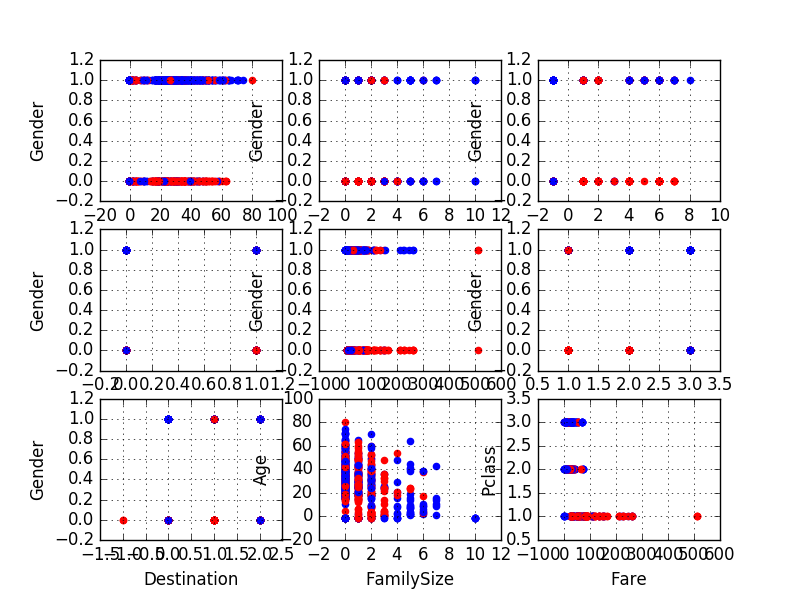
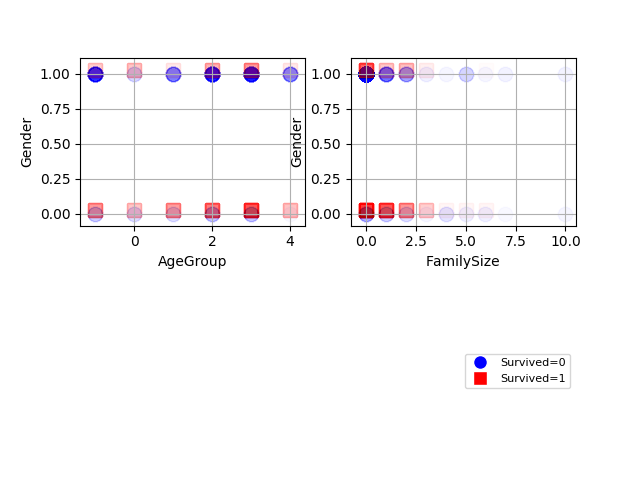
Making plotting a general function and updating analyzer for titanic dataset accordingly

Changed region(s): [[0.0312, 0.0938, 0.9375, 1.0]]

diff --git a/Datasets/Titanic/analyzing_titanic.py b/Datasets/Titanic/analyzing_titanic.py
@@ -7,7 +7,7 @@ import pandas as pd
 import sys
 from collections import defaultdict
 sys.path.insert(0, '/home/kyletos/Kaggle/Tools/')
-from formatting import targetFeatureSplit
+from formatting import *
 
 pd.set_option('display.max_columns', 100000000000)
 pd.set_option('display.max_rows', 1000000000000)
@@ -17,6 +17,8 @@ df_ORI = pd.read_csv('train.csv',header=0)
 print (df_ORI.dtypes ) 
 df = df_ORI.fillna('-1')
 print("NaN = -1")
+
+
 df['Gender'] = df['Sex'].map( {'female': 0, 'male': 1} ).astype(int)
 del df['Sex']
 print("Gender map(Sex): 'male'= 1 and 'female'= 0")
@@ -26,14 +28,14 @@ del df['Embarked']
 print("Destinaion map(Embarked): 'NaN' = -1,'S'=0, 'C'=1 , 'Q'=2 ")
 
 df['CabLet'] = df['Cabin'].map( lambda x: x[0])
-df['CabLetter'] = df['CabLet'].map( { '-': -1, 'C': 1, 'E': 2, 'G': 3, 'D': 4, 'A': 5, 'B': 6, 'F': 7, 'T': 8}).astype(int)
+df['CabLetter'] = df['CabLet'].map( { '-': -1, 'C': 0, 'E': 1, 'G': 2, 'D': 3, 'A': 4, 'B': 5, 'F': 6, 'T': 7}).astype(int)
 del df['Cabin']
 del df['CabLet']
-print("CabLetter map(Cabin)= 'NaN'= -1, 'C'= 1, 'E'= 2, 'G'= 3, 'D'= 4, 'A'= 5, 'B'= 6, 'F'= 7, 'T'= 8")
+print("CabLetter map(Cabin)= 'NaN'= -1, 'C'= 0, 'E'= 1, 'G'= 2, 'D'= 3, 'A'= 4, 'B'= 5, 'F'= 6, 'T'= 7")
 
-df['TicketBeginLetter'] = df['Ticket'].map( lambda x: -1 if x == -1 else True if x[0].isdigit() else False)
+df['TicketBeginLetter'] = df['Ticket'].map( lambda x: -1 if x == -1 else 1 if x[0].isdigit() else 0)
 del df['Ticket']
-print("TicketBeginLetter map(Ticket): True if Letter is in name, False if no letter in name.")
+print("TicketBeginLetter map(Ticket): 1 if Letter is in name, 0 if no letter in name.")
 
 df['AgeGroup'] = df['Age'].map(lambda x: -1 if x == '-1' else 0 if x >= 0 and x < 10 else 1 if x >= 10 and x < 20 else 2 if x >= 20 and x < 30 else 3 if x >= 30 and x < 50 else 4 if x >= 50 else -1)
 del df['Age']
@@ -49,7 +51,7 @@ print("FamilySize = SibSp + Parch")
 ##################################
 # All numerical or boolean features
 print("\n\n#################### All Features ########################################\n" , df.columns.values )
-df_train_features = df[['Gender', 'AgeGroup', 'FamilySize', 'CabLetter', 'Destination', 'Pclass', 'Fare', 'TicketBeginLetter']].copy()
+df_train_features = df[['Survived', 'Gender', 'AgeGroup', 'FamilySize', 'CabLetter', 'Destination', 'Pclass', 'Fare', 'TicketBeginLetter']].copy()
 print("\n\n################################# Total interesting features ######################\n" , df_train_features.columns.values )
 
 #Portion of features that I use in final selection
@@ -63,6 +65,7 @@ labels_selection, features_selection = targetFeatureSplit(np_train_features_sele
 ################
 sys.path.insert(0, '/home/kyletos/Kaggle/Algorithms/')
 
+"""
 # SVM Classifiers
 from SVM_functions import *
 svmClassifier(features=features_selection, labels=labels_selection, kernel='linear', C_smoothness=1, kFolds=10, printScores=True, polyDegree=1, gamma='auto', classWeight='balanced')
@@ -71,6 +74,7 @@ svmClassifier(features=features_selection, labels=labels_selection, kernel=custo
 
 paramDict= {'kernel':('sigmoid', 'rbf'), 'C':[1, 10, 30, 70, 100], 'gamma':[.01, .05, .1, 1, 10, 30, 70, 100], 'class_weight':[None, 'balanced', {0:.35, 1:.65}]}
 best_params = svmClassifierGridSearch( features=features_selection, labels=labels_selection, parameters=paramDict, cross_validation=10)
+"""
 
 """
 ##############################
@@ -86,39 +90,25 @@ for ir in df_train_features.itertuples():
   df_train_features.iloc[int(ir[0]), df_train_features.columns.get_loc('nanSum')] = nanSum
 df_train_features = df_train_features[df_train_features['nanSum'] < len(df_train_features.columns) / 2]
 print("AFTER REMOVAL: len(df_train_features)=", len(df_train_features) )
-
-
+"""
 ################
 # Visualization
 ################
-survived = df["Survived"].values
-labels = []
-labels.append(['Age', 'Gender'])
-labels.append(['FamilySize', 'Gender'])
-labels.append(['CabLetter', 'Gender'])
-labels.append(['TicketBeginLetter', 'Gender'])
-labels.append(['Fare', 'Gender'])
-labels.append(['Pclass', 'Gender'])
-labels.append(['Destination', 'Gender'])
-labels.append(['FamilySize', 'Age'])
-labels.append(['Fare', 'Pclass'])
+pairs = []
+pairs.append(['AgeGroup', 'Gender'])
+pairs.append(['FamilySize', 'Gender'])
+"""
+pairs.append(['CabLetter', 'Gender'])
+pairs.append(['TicketBeginLetter', 'Gender'])
+pairs.append(['Fare', 'Gender'])
+pairs.append(['Pclass', 'Gender'])
+pairs.append(['Destination', 'Gender'])
+pairs.append(['FamilySize', 'AgeGroup'])
+pairs.append(['Fare', 'Pclass'])
+"""
+plotGridOf2DsWithColor(df_train_features, pairs, ["blue", "red"], [ "o", "s"], "SVM_FeatureComb.png", "png" , 0.01, 110)
 
-
-colors = ["b", "r"]
-np_labels = np.array(labels)
-for i in range(9):
-  print("Plot", i )
-  plt.subplot(3,3,i+1)
-  plt.xlabel(np_labels[i][0])
-  plt.ylabel(np_labels[i][1])
-  np_train_features = df_train_features[[ np_labels[i][0], np_labels[i][1] ]].values
-  for ii in range(len(survived )):
-    plt.scatter(np_train_features[ii][0], np_train_features[ii][1], color = colors[survived[ii]] )
-  plt.grid(True)
-plt.savefig("SVM_FeatureComb.png", format='png')
-plt.show()
-
-
+"""
 #################
 # Percentages
 #################

diff --git a/Tools/formatting.py b/Tools/formatting.py
@@ -2,14 +2,16 @@ import string
 import numpy as np
 import csv
 import matplotlib.pyplot as plt
+import matplotlib.patches as mpatches
+import pylab
 import sys
 import pandas as pd
-
+import math
+"""
+given a numpy array like the one returned from featureFormat, separate out the first feature and put it into its own list (this should be the  quantity you want to predict)
+return targets and features as separate lists. (sklearn can generally handle both lists and numpy arrays as input formats when training/predicting)
+"""
 def targetFeatureSplit( data ):
-    """ 
-        given a numpy array like the one returned from featureFormat, separate out the first feature and put it into its own list (this should be the  quantity you want to predict)
-        return targets and features as separate lists. (sklearn can generally handle both lists and numpy arrays as input formats when training/predicting)
-    """
     target = []
     features = []
     for item in data:
@@ -17,3 +19,44 @@ def targetFeatureSplit( data ):
         features.append( item[1:] )
     return target, features
 
+"""
+Takes features and pairs and plots 2D plots with colors of the pairs. 
+features should be a dataframe, with the first column being the predicted label (Survived for the Titanic Dataset).
+pairs should be a list of arrays with the two values to be plotted together.
+colors should have as many values as unique label values.
+"""
+def plotGridOf2DsWithColor(features, pairs, colors, markerShapes, plotName, fileTypeSuffix, alphaValue, size):
+  if len(features.ix[:,0].unique() ) != len(colors):
+    print ("Numer of colors=", len(colors), "\tNumber of unique features=", len(features.ix[:,0].unique() ) )
+    print ("\nNumber of colors does not correspond to number of unique label values. Please fix!")
+    return
+  np_pairs = np.array(pairs)
+  for i in range(np_pairs.shape[0]):
+    print("Plot", i , pairs[i])
+    xUnique = len(features[pairs[i][0]].unique() )*1.0
+    yUnique = len(features[pairs[i][1]].unique() )*1.0
+    labelsUnique = features.ix[:,0].unique().tolist()
+    plt.subplot(math.ceil(math.sqrt(np_pairs.shape[0]) ), math.ceil(math.sqrt(np_pairs.shape[0]) ), i+1) # This is setting the subplot grid
+    plt.xlabel(np_pairs[i][0])
+    plt.ylabel(np_pairs[i][1])
+    # dfList is a list of dataframes of the columns in the "pairs" to be plotted, where each dataframe has a unique features in the predictive feature (Survived for Titanic dataset).
+    dfList = []
+    for label in features.ix[:,0].unique():
+      dfList.append(features.loc[ features.ix[:,0] == label, [ pairs[i][0], pairs[i][1] ] ] )
+    emptyTuple = ()
+    lineTuple = list(emptyTuple)
+    lineNameTuple = list(emptyTuple)
+    for ite in range(len(dfList) ):
+      # Offsets are for having part of the point being able to be seen around the point itself. By dividing by unique values, it makes this do nothing for continuous variables
+      xOffSet = .05 * math.cos(2*math.pi/ (1.0 * (1+ite) * len(labelsUnique) ) ) / xUnique
+      yOffSet = .05 * math.sin(2*math.pi/ (1.0 * (1+ite) * len(labelsUnique) ) ) / yUnique
+      legendLabel = features.columns[0] + '=' + str(labelsUnique[ite] )
+      plt.scatter(dfList[ite].ix[:,0] + xOffSet, dfList[ite].ix[:,1] + yOffSet, color = colors[ite], marker=markerShapes[ite], alpha=alphaValue, s=110, label=legendLabel)
+      # The rest of the for loop is for mamking the legend. It's complicated because it's difficult to get the alpha of a scatterplot different on the legend. Had to make lines to do it.
+      globals()['line%s' % ite] = pylab.Line2D( range(1), range(1), color='white', marker=markerShapes[ite], markersize=10, markerfacecolor=colors[ite], alpha=1) 
+      lineTuple.append(globals()['line%s' % ite] )
+      lineNameTuple.append(legendLabel)
+    plt.grid(True)
+  leg = plt.legend(tuple(lineTuple), tuple(lineNameTuple), bbox_to_anchor=(1.0, -1), loc=4, fontsize=8)
+  plt.savefig(plotName, format=fileTypeSuffix)
+  plt.show()
